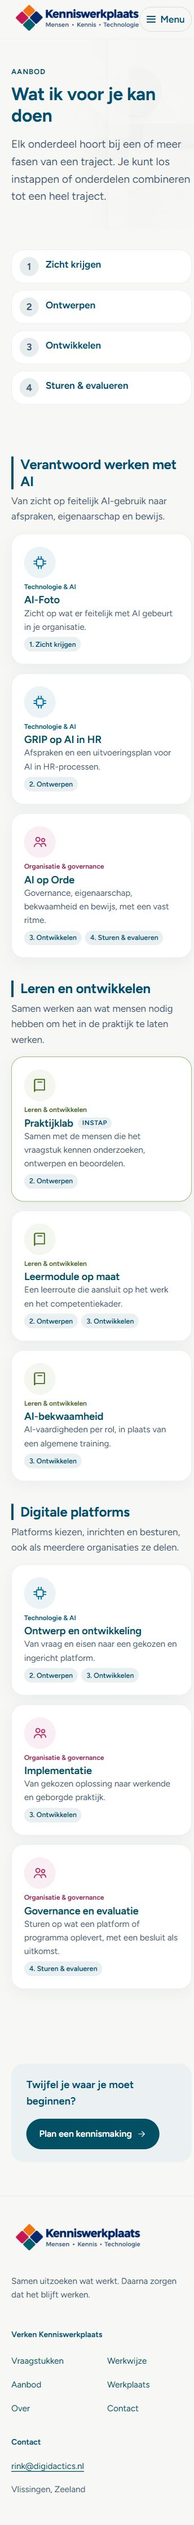
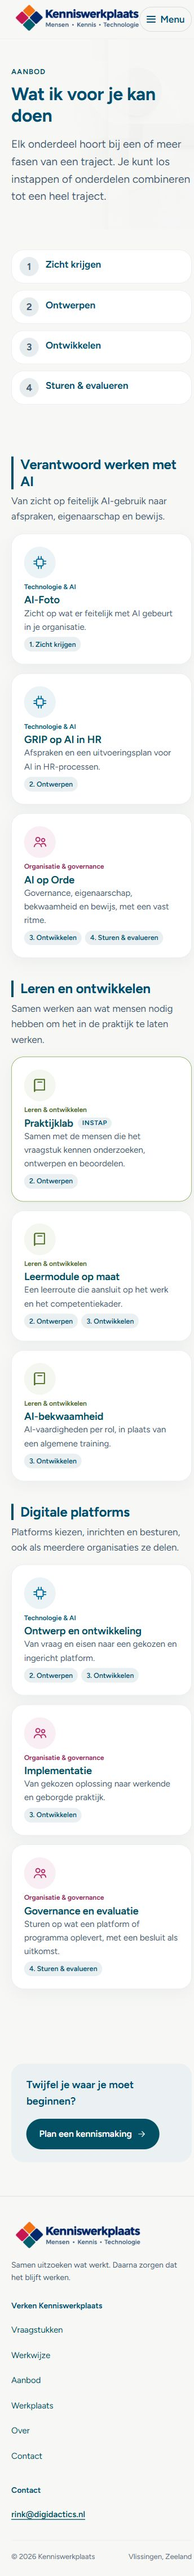
Maak footer rustiger met verticale navigatie en afsluitende regel

diff --git a/src/styles/global.css b/src/styles/global.css
@@ -131,14 +131,20 @@ section.tight { padding: 36px 0; }
   .menu[open] a { display: block; padding: 12px; font-size: 1.05rem; }
 }
 
-/* ─── Footer ───────────────────────────────────────────── */
-.site-footer { border-top: 1px solid var(--line); padding: 40px 0; margin-top: 24px; font-size: .95rem; }
-.footer-inner { display: grid; grid-template-columns: 1.4fr 1fr 1fr; gap: 32px; }
-.footer-inner .logo { font-size: 1.05rem; margin-bottom: .5rem; }
-.footer-nav { list-style: none; padding: 0; margin: 0; columns: 2; }
-.footer-nav a { color: var(--action); text-decoration: none; line-height: 2; }
-.footer-nav a:hover { color: var(--teal-700); }
-@media (max-width: 720px) { .footer-inner { grid-template-columns: 1fr; } }
+/* ─── Footer: rustig, typografisch en logisch leesbaar ──── */
+.site-footer { background:var(--paper); border-top:1px solid var(--line-2); padding:44px 0 24px; margin-top:24px; font-size:.9375rem; }
+.footer-inner { display:grid; grid-template-columns:minmax(0,1.4fr) minmax(0,1fr) minmax(0,1fr); gap:48px; align-items:start; }
+.footer-brand .logo { display:flex; width:fit-content; margin:0; }
+.footer-brand .logo-full { width:250px; max-width:100%; }
+.footer-tagline { margin:0; max-width:19rem; font-size:.875rem; line-height:1.6; color:var(--ink-2); }
+.footer-title { margin:0 0 12px; font-size:.875rem; line-height:1.5; font-weight:650; letter-spacing:0; color:var(--ink); }
+.footer-nav { list-style:none; padding:0; margin:0; display:grid; grid-template-columns:1fr; gap:2px; }
+.footer-nav a { display:inline-block; padding:5px 0; color:var(--action); text-decoration:none; line-height:1.5; }
+.footer-nav a:hover,.footer-contact a:hover { color:var(--action-hover); text-decoration:underline; }
+.footer-contact a { display:inline-block; padding:5px 0; font-weight:600; overflow-wrap:anywhere; line-height:1.5; }
+.footer-bottom { margin-top:32px; border-top:1px solid var(--line); padding-top:18px; display:flex; justify-content:space-between; gap:12px 24px; flex-wrap:wrap; font-size:.8125rem; color:var(--ink-3); }
+.footer-bottom p { margin:0; }
+@media(max-width:720px) { .site-footer { padding-top:32px; }.footer-inner { grid-template-columns:1fr; gap:28px; }.footer-nav a,.footer-contact a { padding:10px 0; }.footer-bottom { margin-top:24px; } }
 
 /* ─── Hero ─────────────────────────────────────────────── */
 .hero { padding: 28px 0 8px; }
@@ -374,18 +380,8 @@ a.card:hover { border-color: var(--teal-400); transform: translateY(-2px); color
 .groep-card:hover { transform:translateY(-3px); border-color:var(--accent); box-shadow:0 14px 32px #10283a12; }
 .groep-card .go svg { transition:transform .2s; }
 .groep-card:hover .go svg { transform:translateX(4px); }
-.site-footer { padding-bottom:0; overflow:hidden; }
+
 @media(prefers-reduced-motion:reduce) { .groep-card,.groep-card .go svg { transition:none; }.groep-card:hover,.groep-card:hover .go svg { transform:none; } }
-
-/* Standaardfooter: puur typografisch, zonder decoratieve kunst. */
-.site-footer { background:var(--paper); padding:48px 0; border-top:1px solid var(--line); }
-.footer-inner { grid-template-columns:1.25fr 1fr 1fr; gap:40px; align-items:start; }
-.footer-inner .muted { max-width:300px; margin-top:16px; color:var(--ink-2); }
-.footer-nav { display:grid; grid-template-columns:1fr 1fr; gap:12px 20px; }
-.footer-nav-title { grid-column:1/-1; margin-bottom:8px; font-size:.875rem; font-weight:650; color:var(--ink); }
-.footer-contact-title { margin:0 0 20px; font-size:.875rem; font-weight:650; color:var(--ink); }
-@media(max-width:720px) { .footer-inner { grid-template-columns:1fr; gap:32px; }.site-footer { padding:36px 0; } }
-
 
 /* Domein op het onderwerp zelf; de aanbodgroep bepaalt geen domein. */
 .domein-org { --domein-color:var(--org); --domein-tint:var(--org-tint); --domein-ink:var(--org-ink); --domein-icon:var(--org); }

diff --git a/docs/reviews/kleursysteem/README.md b/docs/reviews/kleursysteem/README.md
@@ -40,3 +40,13 @@ Deze kleurcontrole omvat functionele HTML-tekst en iconen. Logo's en rasterillus
 [Homepage desktop](homepage-desktop.jpg) · [Aanbod desktop](aanbod-desktop.jpg) · [Homepage 360px](homepage-360.jpg) · [Aanbod 360px](aanbod-360.jpg)
 
 ![Domeinrollen op de homepage, met zichtbare toetsenbordfocus](homepage-kleuren.jpg)
+
+## Vervolg: footer
+
+De footer heeft drie rustige kolommen, een verticale navigatielijst met alle zes bestaande links, logo en slogan dichter bij elkaar, en een onderste regel met het buildjaar, de bestaande merknaam en de bestaande locatie. De bovenlijn blijft zichtbaar. De semantische footer-navigatie heeft een eigen toegankelijke naam. De CSS voor de standaardfooter staat nu op één plek. Op mobiel worden de kolommen gestapeld en krijgen links ruimere klikvlakken. Geen nieuwe locatie of contactgegevens overgenomen uit de voorbeeldtekst.
+
+Build en ingebouwde controles geslaagd; opnieuw gecontroleerd op desktop en 360px, zonder contrastfouten of horizontale scroll. Deze twee aanvullende browsertoestanden zijn toegevoegd aan de meetgegevens. De volledige pagina-screenshots zijn vernieuwd.
+
+![Footer desktop](footer-desktop.jpg)
+
+[Footer op mobiel: volledige homepage](homepage-360.jpg)
